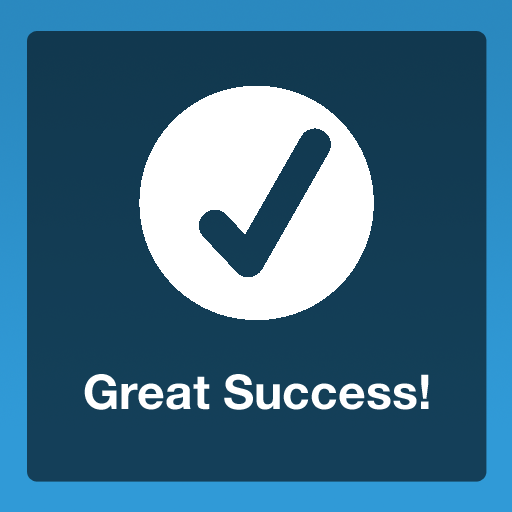
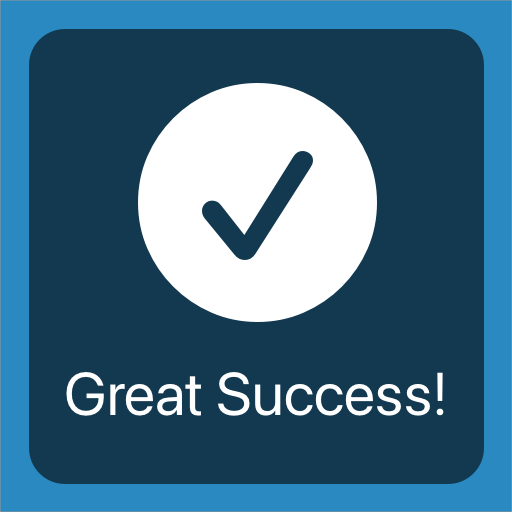
Removed iOS6 Images, Update Images & added ShowInfoWithStatus

diff --git a/BTProgressHUD/ProgressHUD.cs b/BTProgressHUD/ProgressHUD.cs
@@ -133,14 +133,19 @@ namespace BTProgressHUD
             obj.InvokeOnMainThread(() => SetStatusWorker(status));
         }
 
-        public void ShowSuccessWithStatus(string status, MaskType maskType = MaskType.None, double timeoutMs = 1000)
+        public void ShowSuccessWithStatus(string status, MaskType maskType = MaskType.None, double timeoutMs = 1000, bool outlinedImage = false)
         {
-            ShowImage(SuccessImage, status, maskType, timeoutMs);
+            ShowImage(outlinedImage ? SuccessOutlineImage : SuccessImage, status, maskType, timeoutMs);
         }
 
-        public void ShowErrorWithStatus(string status, MaskType maskType = MaskType.None, double timeoutMs = 1000)
+        public void ShowErrorWithStatus(string status, MaskType maskType = MaskType.None, double timeoutMs = 1000, bool outlinedImage = false)
         {
-            ShowImage(ErrorImage, status, maskType, timeoutMs);
+            ShowImage(outlinedImage ? ErrorOutlineImage : ErrorImage, status, maskType, timeoutMs);
+        }
+        
+        public void ShowInfoWithStatus(string status, MaskType maskType = MaskType.None, double timeoutMs = 1000, bool outlinedImage = false)
+        {
+            ShowImage(outlinedImage ? InfoOutlineImage: InfoImage, status, maskType, timeoutMs);
         }
 
         public void ShowImage(UIImage image, string status, MaskType maskType = MaskType.None, double timeoutMs = 1000)
@@ -153,29 +158,14 @@ namespace BTProgressHUD
             obj.InvokeOnMainThread(DismissWorker);
         }
 
-        public UIImage ErrorImage
-        {
-            get
-            {
-                return (UIImage.FromBundle("error_7.png"));
-            }
-        }
-
-        public UIImage SuccessImage
-        {
-            get
-            {
-                return (UIImage.FromBundle("success_7.png"));
-            }
-        }
-
-        public bool IsVisible
-        {
-            get
-            {
-                return Alpha == 1;
-            }
-        }
+        public UIImage ErrorImage => UIImage.FromBundle("error.png");
+        public UIImage SuccessImage => UIImage.FromBundle("success.png");
+        public UIImage InfoImage => UIImage.FromBundle("info.png");
+        
+        public UIImage ErrorOutlineImage => UIImage.FromBundle("error-outline.png");
+        public UIImage SuccessOutlineImage => UIImage.FromBundle("success-outline.png");
+        public UIImage InfoOutlineImage => UIImage.FromBundle("info-outline.png");
+        public bool IsVisible => Alpha == 1;
 
         static ProgressHUD sharedHUD = null;
 

diff --git a/samples/BTProgressHUDSample/BTProgressHUDSample/MainView.cs b/samples/BTProgressHUDSample/BTProgressHUDSample/MainView.cs
@@ -84,12 +84,31 @@ namespace BTProgressHUDDemo
 			{
                 BTProgressHUD.BTProgressHUD.ShowErrorWithStatus("Oh, thats bad");
 			});
+            
+            MakeButton("Show Info", () =>
+            {
+                BTProgressHUD.BTProgressHUD.ShowInfoWithStatus("Notice me!");
+            });
+            
+            MakeButton("Show Success (Outlined)", () =>
+            {
+                BTProgressHUD.BTProgressHUD.ShowSuccessWithStatus("Great success!", default, default, true);
+            });
+
+            MakeButton("Show Fail (Outlined)", () =>
+            {
+                BTProgressHUD.BTProgressHUD.ShowErrorWithStatus("Oh, thats bad", default, default, true);
+            });
+            
+            MakeButton("Show Info (Outlined)", () =>
+            {
+                BTProgressHUD.BTProgressHUD.ShowInfoWithStatus("Notice me!", default, default, true);
+            });
 
 			MakeButton("Toast", () =>
 			{
-                BTProgressHUD.BTProgressHUD.ShowToast("Hello from the toast", showToastCentered: false, timeoutMs: 1000);
-
-			});
+                BTProgressHUD.BTProgressHUD.ShowToast("Hello from the toast", false, 1000);
+            });
 
             MakeButton("Dismiss", () =>
 			{
@@ -117,8 +136,6 @@ namespace BTProgressHUDDemo
 					{
                         BTProgressHUD.BTProgressHUD.Show("Hello!", progress);
 					}
-
-
 				});
 				NSRunLoop.Current.AddTimer(timer, NSRunLoopMode.Common);
 			});

diff --git a/BTProgressHUD/BTProgressHUD.cs b/BTProgressHUD/BTProgressHUD.cs
@@ -46,15 +46,20 @@ namespace BTProgressHUD
 			ProgressHUD.Shared.SetStatus(status);
 		}
 
-		public static void ShowSuccessWithStatus(string status, MaskType maskType = MaskType.None, double timeoutMs = 1000)
+		public static void ShowSuccessWithStatus(string status, MaskType maskType = MaskType.None, double timeoutMs = 1000, bool outlinedImage = false)
 		{
-			ProgressHUD.Shared.ShowSuccessWithStatus(status, maskType, timeoutMs);
+			ProgressHUD.Shared.ShowSuccessWithStatus(status, maskType, timeoutMs, outlinedImage);
 		}
 
-		public static void ShowErrorWithStatus(string status, MaskType maskType = MaskType.None, double timeoutMs = 1000)
+		public static void ShowErrorWithStatus(string status, MaskType maskType = MaskType.None, double timeoutMs = 1000, bool outlinedImage = false)
 		{
-			ProgressHUD.Shared.ShowErrorWithStatus(status, maskType, timeoutMs);
+			ProgressHUD.Shared.ShowErrorWithStatus(status, maskType, timeoutMs, outlinedImage);
 		}
+        
+        public static void ShowInfoWithStatus(string status, MaskType maskType = MaskType.None, double timeoutMs = 1000, bool outlinedImage = false)
+        {
+            ProgressHUD.Shared.ShowInfoWithStatus(status, maskType, timeoutMs, outlinedImage);
+        }
 
 		public static void ShowImage(UIImage image, string status, MaskType maskType = MaskType.None, double timeoutMs = 1000)
 		{
